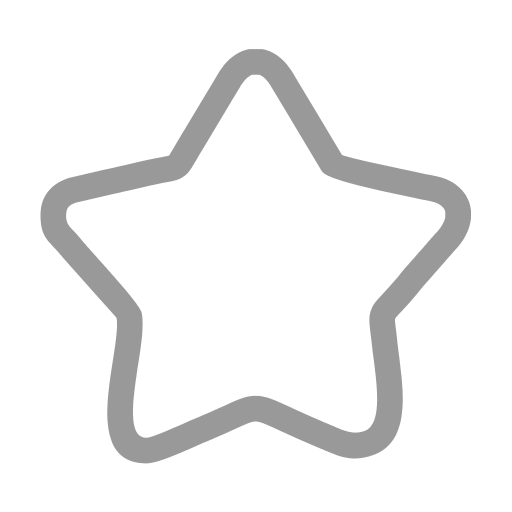
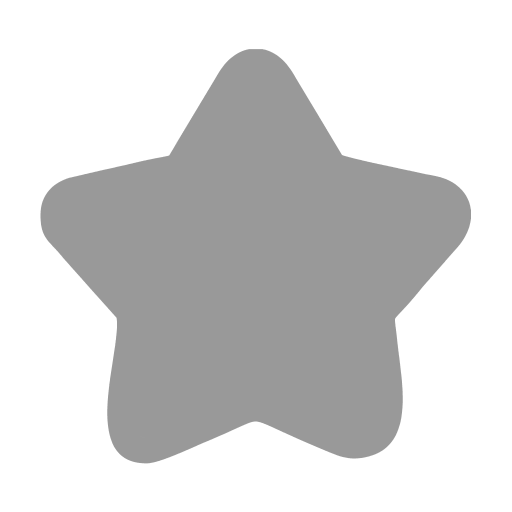
archive likes按钮完成，未登录记录数据完成

Changed region(s): [[0.125, 0.125, 0.875, 0.875]]

diff --git a/public/javascript/archive.js b/public/javascript/archive.js
@@ -5,12 +5,14 @@ var bangumi_informations = [
 var user = {};
 var bangumicards_box = document.getElementsByClassName("bangumicards-box")[0];
 var bangumicard = [];
-bangumicard_like = [];
+var likes = []
+var bangumicard_like = [];
 
 function Init()
 {
     for (var i = 1; i <= bangumi_informations.length; i++)
     {
+
         bangumicard[i] = document.createElement('div');
         bangumicard[i].style.width = "36%";
         bangumicard[i].style.height = "10vw";
@@ -26,7 +28,11 @@ function Init()
         bangumicard_like[i].style.width = '1.5vw';
         bangumicard_like[i].style.position = 'absolute';
         bangumicard_like[i].style.right = '1%';
-        bangumicard_like[i].style.backgroundImage = 'url(/img/like.png)'
+        bangumicard_like[i].className = i;
+        if (likes[i] == 1)
+            bangumicard_like[i].style.backgroundImage = 'url(/img/like.png)';
+        else
+            bangumicard_like[i].style.backgroundImage = 'url(/img/unlike.png)';
         bangumicard_like[i].style.backgroundRepeat = 'no-repeat';
         bangumicard_like[i].style.backgroundPosition = 'center';
         bangumicard_like[i].style.backgroundSize = 'cover';
@@ -34,7 +40,7 @@ function Init()
         bangumicard[i].appendChild(bangumicard_like[i]);
         bangumicard_like[i].onmouseover = function ()
         {
-            this.style.filter = 'brightness(1.5)';
+            this.style.filter = 'brightness(1.2)';
         }
         bangumicard_like[i].onmouseout = function ()
         {
@@ -42,11 +48,18 @@ function Init()
         }
         bangumicard_like[i].onclick = function ()
         {
-            if (user['code'] == 401)
+            if (likes[this.className] == 1)
             {
-                console.log(11);
+                this.style.backgroundImage = 'url(/img/unlike.png)';
+                likes[this.className] = 0;
+                saveListToCookie('likes', likes);
             }
-            
+            else
+            {
+                this.style.backgroundImage = 'url(/img/like.png)';
+                likes[this.className] = 1;
+                saveListToCookie('likes', likes);
+            }
         }
 
 
@@ -161,6 +174,7 @@ function Init()
 
 
     }
+    // console.log(likes);
 }
 
 // function main()
@@ -191,15 +205,40 @@ async function fetchData()
     {
         fetchA = fetch('/bangumiInfo', { method: 'POST', headers: { 'Content-Type': 'application/json', 'season': '2025.4' } }).then(response => response.json());
         fetchB = fetch('/is_login', { method: 'POST', headers: { 'Content-Type': 'application/json' } }).then(response => response.json());
-        fetchC = fetch('/user_like', { method: 'POST', headers: { 'Content-Type': 'application/json', 'user': 'nepnep' } }).then(response => response.json());
+
         const responseA = await fetchA;
-        const responseB = await fetchB;
-        const responseC = await fetchC;
         bangumi_informations = responseA['data'];
-        console.log(bangumi_informations);
-        console.log(responseB);
+        const responseB = await fetchB;
         user = responseB;
-        console.log(responseC['bangumi_list']);
+
+        for (var i = 1; i <= responseA['data'].length; i++)
+        {
+            likes[i] = 0;
+        }
+        if (user['code'] == 401)
+        {
+            if (getListFromCookie('likes') != null)
+            {
+                likes = getListFromCookie('likes');
+            }
+        }
+        else
+        {
+            fetchC = fetch('/user_like', { method: 'POST', headers: { 'Content-Type': 'application/json', 'user': user['nickname'] } }).then(response => response.json());
+            const responseC = await fetchC;
+            for (var i = 1; i <= responseC['bangumi_list'].length; i++)
+            {
+                likes[responseC['bangumi_list'][i - 1]['id']] = 1;
+            }
+        }
+
+
+
+
+        // console.log(bangumi_informations);
+        console.log(user);
+
+
         Init();
     }
     catch (error)
@@ -209,7 +248,50 @@ async function fetchData()
 
 }
 
-fetchData();
+// 保存列表到cookie
+function saveListToCookie(listName, listData, daysToExpire = 30)
+{
+    // 将列表数据转换为JSON字符串
+    const listString = JSON.stringify(listData);
+
+    // 设置过期时间
+    const date = new Date();
+    date.setTime(date.getTime() + (daysToExpire * 24 * 60 * 60 * 1000));
+    const expires = "expires=" + date.toUTCString();
+
+    // 设置cookie
+    document.cookie = `${listName}=${encodeURIComponent(listString)};${expires};path=/`;
+}
+
+// 从cookie获取列表
+function getListFromCookie(listName)
+{
+    const name = listName + "=";
+    const decodedCookie = decodeURIComponent(document.cookie);
+    const cookieArray = decodedCookie.split(';');
+
+    for (let i = 0; i < cookieArray.length; i++)
+    {
+        let cookie = cookieArray[i];
+        while (cookie.charAt(0) === ' ')
+        {
+            cookie = cookie.substring(1);
+        }
+        if (cookie.indexOf(name) === 0)
+        {
+            const listString = cookie.substring(name.length, cookie.length);
+            return JSON.parse(listString);
+        }
+    }
+    return null; // 如果没有找到则返回null
+}
+
+function main()
+{
+    fetchData();
+}
+
+main();
 
 
 

diff --git a/app.js b/app.js
@@ -266,27 +266,6 @@ app.post('/userinfo_update', (req, res) =>
     }
 });
 
-app.get('/test', (req, res) =>
-{
-    req.session.username = 'nepnep';
-    res.send('登录成功');
-});
-app.get('/test2', (req, res) =>
-{
-    req.session.username = 'lisi';
-    res.send('登录成功');
-});
-app.get('/test1', (req, res) =>
-{
-    if (req.session.username)
-    {
-        res.send(`你好 ${req.session.username}`);
-    }
-    else
-    {
-        res.send(`请登录注册`);
-    }
-});
 
 
 
